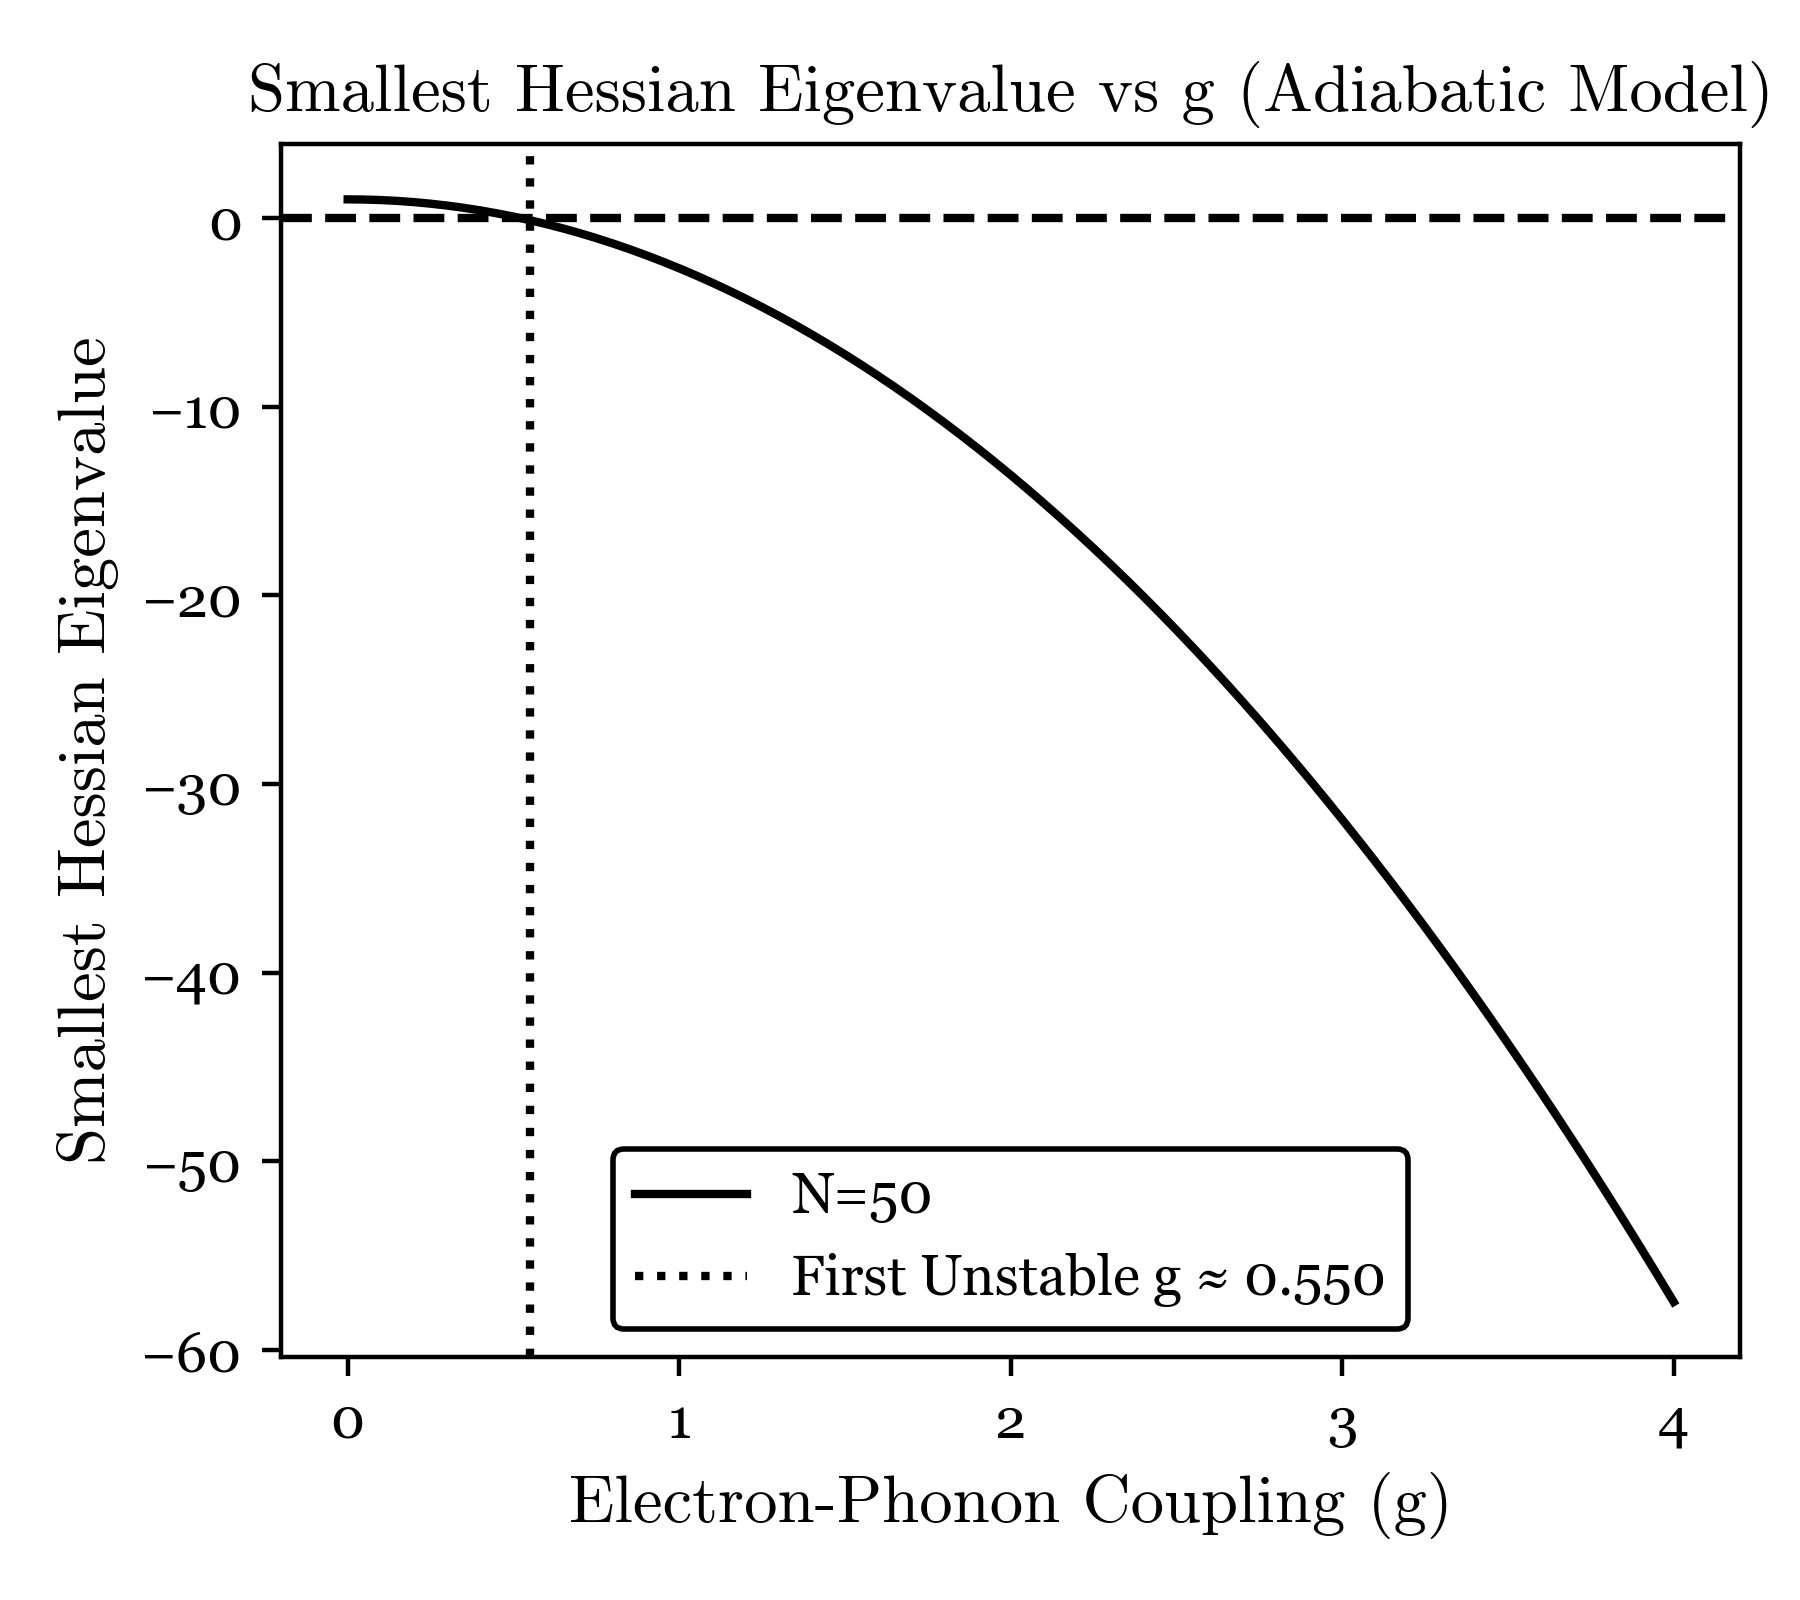
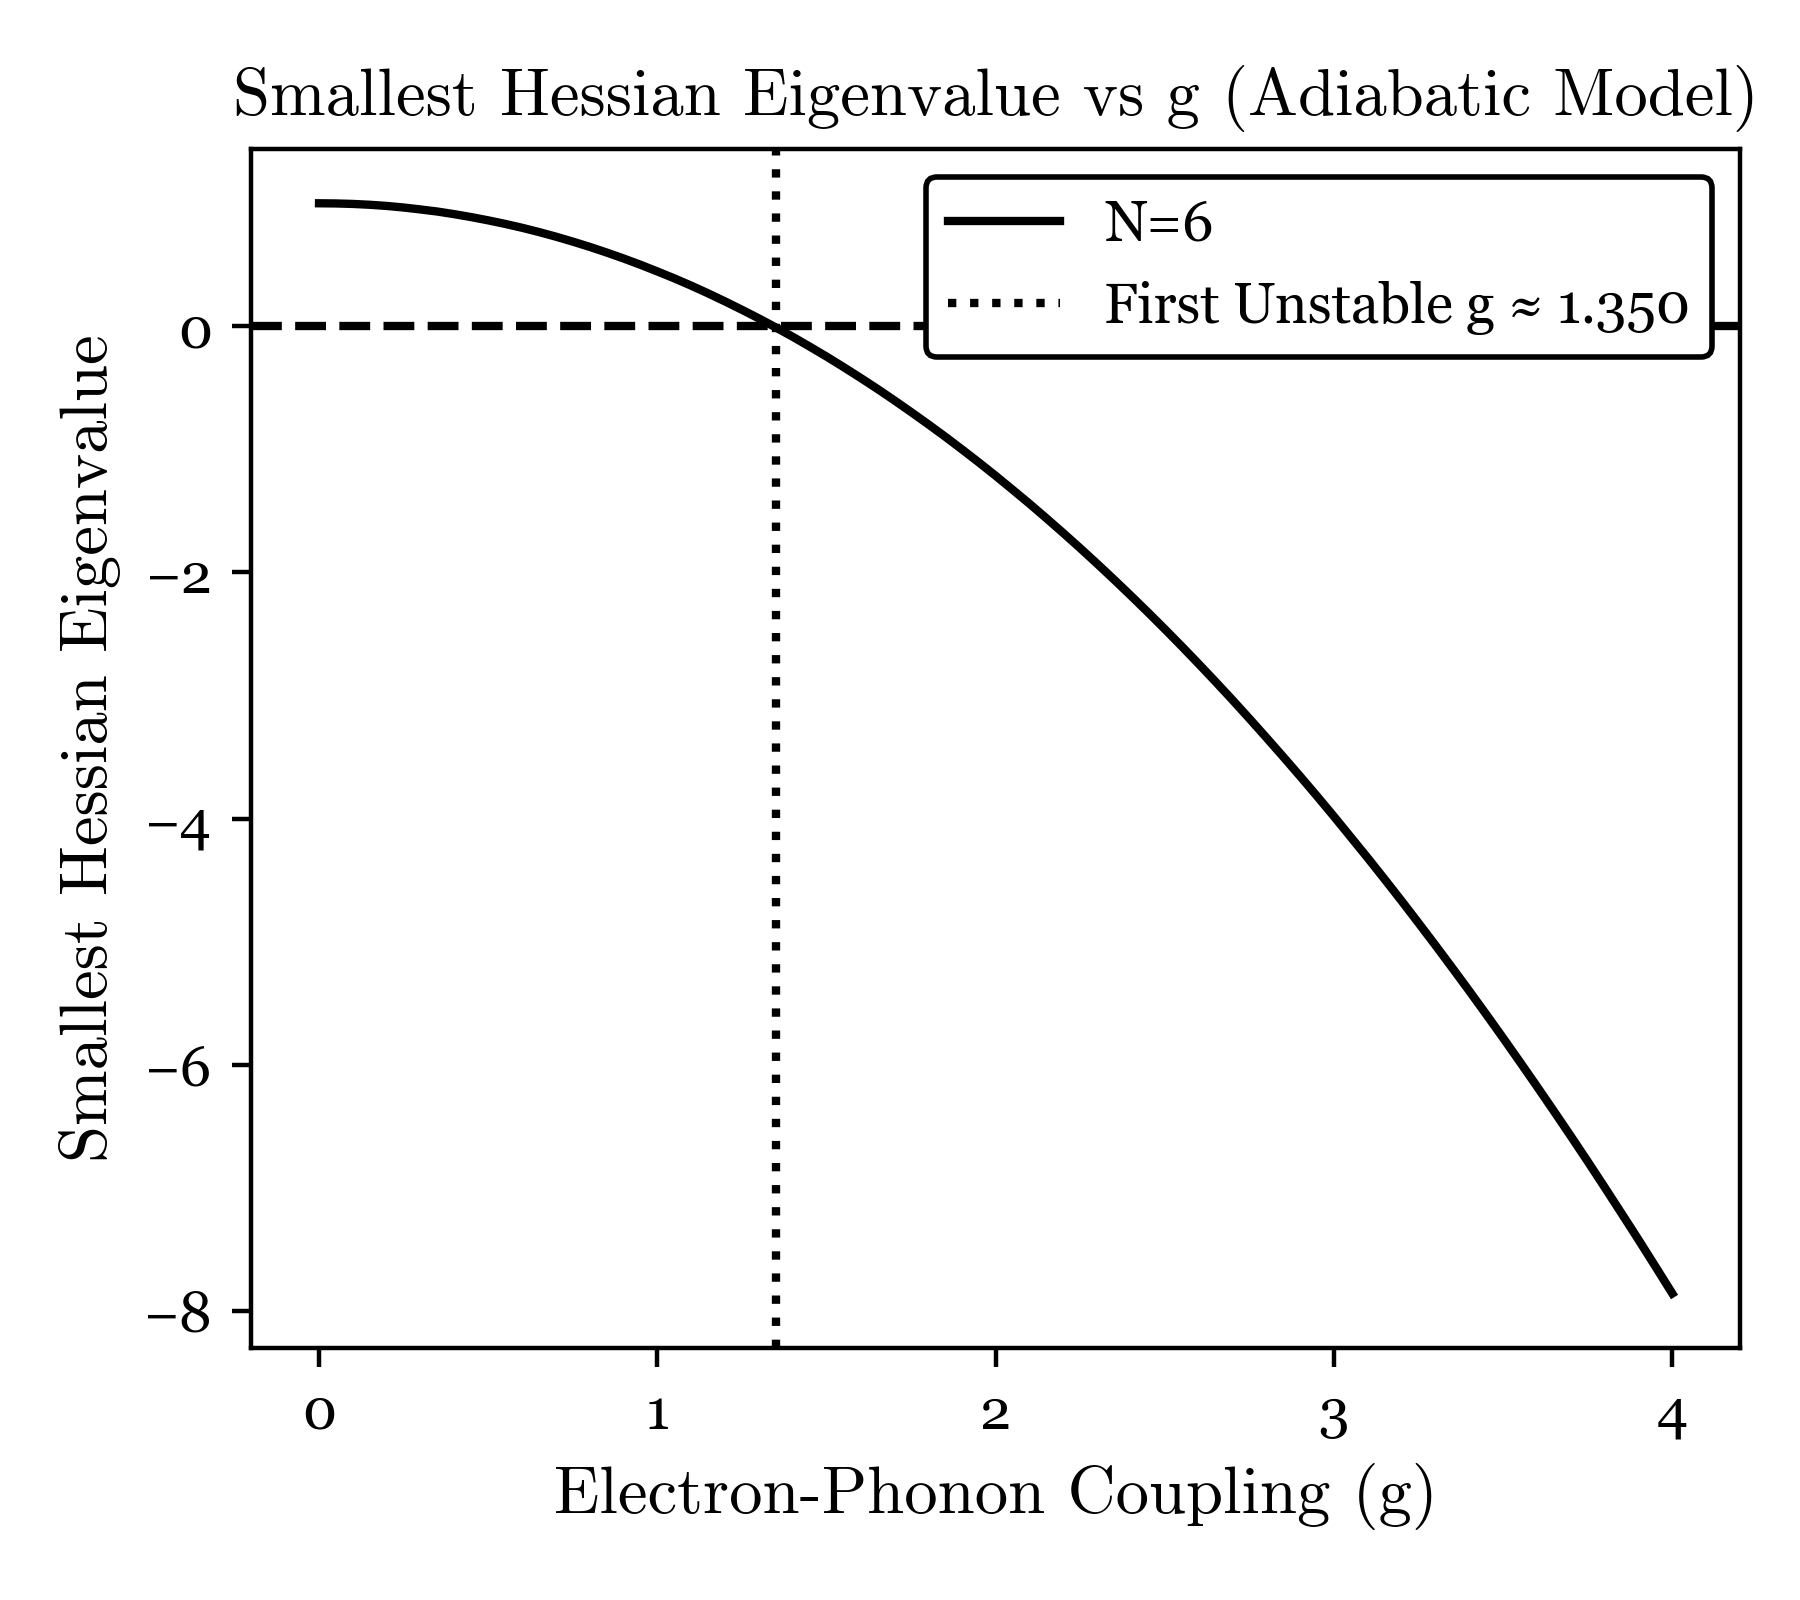
fix g_c_analytical value

diff --git a/Polaron-Symmetry/OBC.py b/Polaron-Symmetry/OBC.py
@@ -59,7 +59,7 @@ def ipr(psi):
 # Parameters
 t  = 1
 K  = 1
-N6 = 50
+N6 = 6
 g_values = np.linspace(0.0, 4.0, 81)
 min_eigvals_N6 = []
 ipr_vals = []
@@ -98,7 +98,7 @@ for g in g_vals_fine:
     eigs = np.linalg.eigvalsh(Hh)
     min_eigvals_N2.append(eigs.min())
 min_eigvals_N2 = np.array(min_eigvals_N2)
-g_c_analytic = 2.0 * np.sqrt(t*K)
+g_c_analytic = np.sqrt(2.0*t*K)
 
 # Plot 1: smallest Hessian eigenvalue vs g for N=6
 plt.figure(figsize=(4.5, 4))
